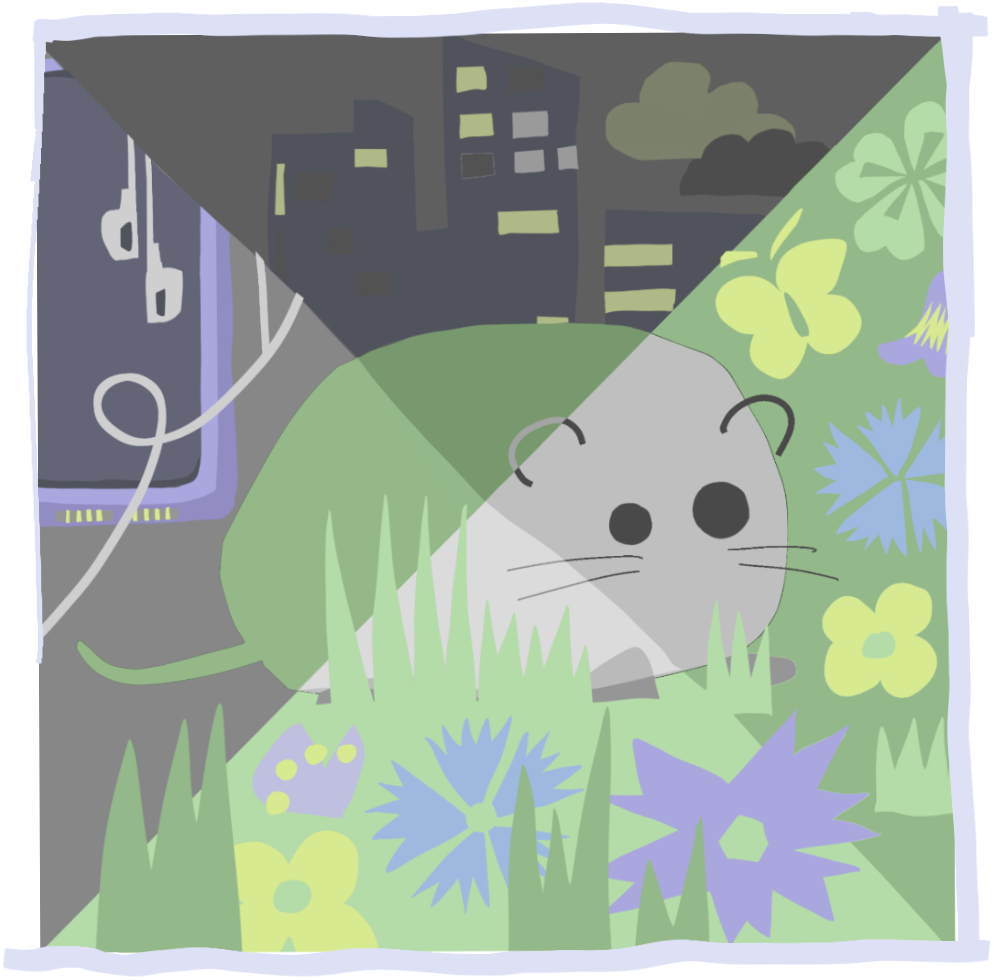
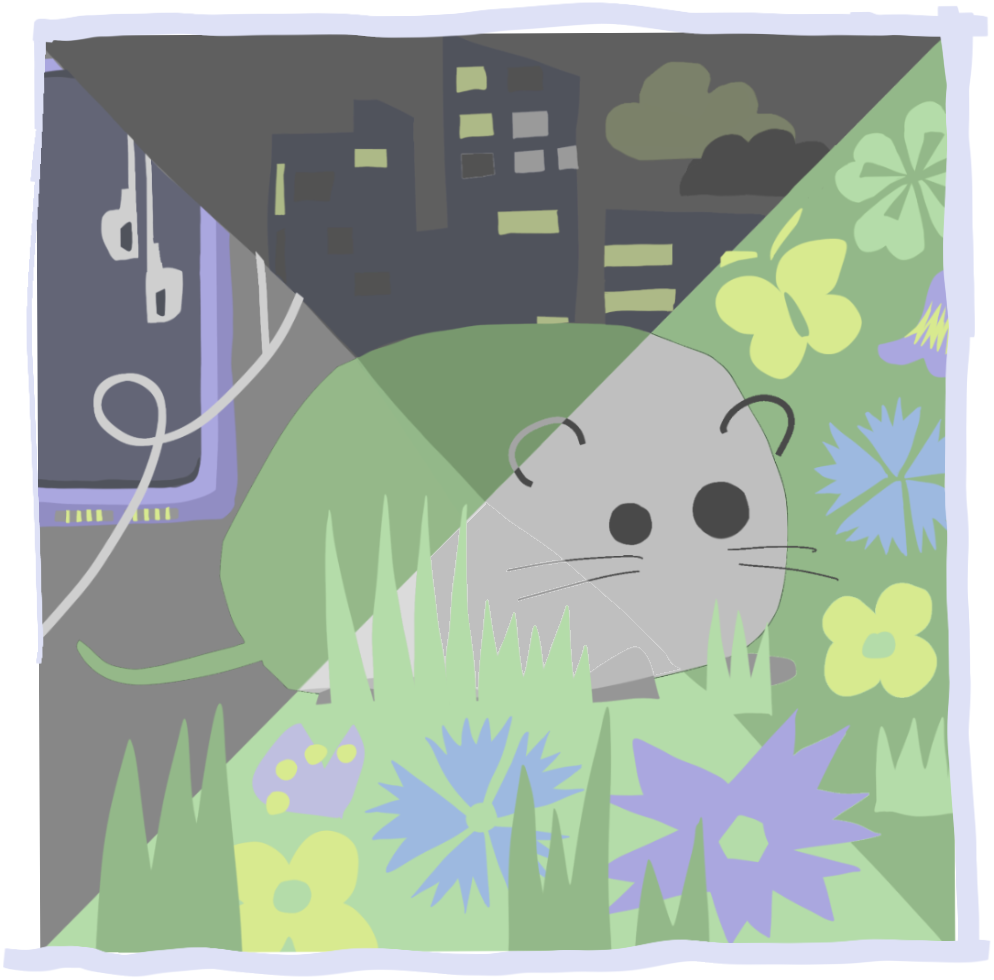
Restore mouse belly white that was keyed out as page background.
Fill lavender/near-white holes under the face with body gray and tighten illustration clip overlap.

Changed region(s): [[0.4366, 0.5204, 0.6861, 0.7041]]

diff --git a/public/cover.js b/public/cover.js
@@ -481,7 +481,7 @@ function setupIllustration(regionsData, AW, AH) {
   const imgSrc = assetUrl(regionsData.image);
   const [cx, cy] = regionsData.centerLocal || [w / 2, h / 2];
   // overlap clips so diagonal X seams don't flash page bg through the middle
-  const clipExpand = 1.14;
+  const clipExpand = 1.16;
 
   const svgNS = "http://www.w3.org/2000/svg";
   const xlinkNS = "http://www.w3.org/1999/xlink";

diff --git a/scripts/fix_mouse_belly.py b/scripts/fix_mouse_belly.py
@@ -1,0 +1,146 @@
+# -*- coding: utf-8 -*-
+"""Find page-bg / near-white keyed pixels in mouse belly and fill with face gray."""
+from __future__ import annotations
+
+from collections import deque
+from pathlib import Path
+
+from PIL import Image, ImageDraw, ImageFilter
+
+ROOT = Path(r"D:\D盘桌面\attic")
+SRC = ROOT / "public" / "center-illustration.png"
+TARGETS = [
+    SRC,
+    ROOT / "public" / "parts" / "center-illustration.png",
+    ROOT / "assets" / "cropped" / "center-illustration.png",
+    ROOT / "assets" / "full" / "center-illustration.png",
+]
+BG = (0xDE, 0xE1, 0xF6)
+FACE = (191, 191, 191, 255)
+PREVIEW = ROOT / "assets" / "illu-restore" / "belly-fixed-preview.png"
+
+
+def near(c, t, tol):
+    return abs(c[0] - t[0]) + abs(c[1] - t[1]) + abs(c[2] - t[2]) <= tol
+
+
+def main() -> None:
+    im = Image.open(SRC).convert("RGBA")
+    w, h = im.size
+    px = im.load()
+
+    # 1) locate face gray seed (right of center)
+    face_pts = []
+    for y in range(int(h * 0.32), int(h * 0.55)):
+        for x in range(int(w * 0.48), int(w * 0.70)):
+            r, g, b, a = px[x, y]
+            if a > 200 and near((r, g, b), (191, 191, 191), 18):
+                face_pts.append((x, y))
+    if not face_pts:
+        raise SystemExit("no face gray found")
+    # face bbox
+    fx0 = min(p[0] for p in face_pts)
+    fx1 = max(p[0] for p in face_pts)
+    fy0 = min(p[1] for p in face_pts)
+    fy1 = max(p[1] for p in face_pts)
+    print("face bbox", fx0, fy0, fx1, fy1, "n", len(face_pts))
+
+    # 2) belly search band: below face, roughly under mouse
+    bx0 = fx0 - 30
+    bx1 = fx1 + 10
+    by0 = fy1 - 10
+    by1 = min(h - 1, fy1 + int((fy1 - fy0) * 1.35))
+
+    # candidates: page-bg colored OR very pale lavender/white that aren't face
+    hole = []
+    for y in range(by0, by1):
+        for x in range(max(0, bx0), min(w, bx1)):
+            r, g, b, a = px[x, y]
+            if a < 40:
+                hole.append((x, y))
+                continue
+            # page ground / keyed white → lavender
+            if near((r, g, b), BG, 36):
+                hole.append((x, y))
+                continue
+            # near-white that isn't face gray (defensive)
+            if r >= 230 and g >= 230 and b >= 230:
+                hole.append((x, y))
+
+    print("hole candidates", len(hole), "band", bx0, by0, bx1, by1)
+
+    # 3) also grab green meadow pixels that sit in a concavity under face
+    #    (keyed white was healed into grass neighbors in some pipelines)
+    # Prefer: connected region of BG-like under face, expand slightly into
+    # flat green that's surrounded by face/green-back silhouette.
+
+    # Grow hole into adjacent BG-like and into "floating" grass pockets
+    # under the chin that are enclosed by silhouette.
+    hole_set = set(hole)
+    # expand within band to include more BG-like
+    q = deque(hole)
+    while q:
+        x, y = q.popleft()
+        for dy in (-1, 0, 1):
+            for dx in (-1, 0, 1):
+                nx, ny = x + dx, y + dy
+                if nx < bx0 or ny < by0 or nx >= bx1 or ny >= by1:
+                    continue
+                if (nx, ny) in hole_set:
+                    continue
+                r, g, b, a = px[nx, ny]
+                if a < 40 or near((r, g, b), BG, 42) or (r >= 225 and g >= 225 and b >= 225):
+                    hole_set.add((nx, ny))
+                    q.append((nx, ny))
+
+    print("hole after grow", len(hole_set))
+
+    # If still too few, detect BG strip by scanning rows under face for BG ratio
+    if len(hole_set) < 80:
+        for y in range(fy1, min(h, fy1 + 120)):
+            row = []
+            for x in range(max(0, fx0 - 20), min(w, fx1 + 5)):
+                r, g, b, a = px[x, y]
+                if a < 40 or near((r, g, b), BG, 40):
+                    row.append((x, y))
+            if len(row) >= 8:
+                for p in row:
+                    hole_set.add(p)
+        print("hole after row scan", len(hole_set))
+
+    # 4) paint belly with face gray + slight noise from neighbors
+    for x, y in hole_set:
+        px[x, y] = FACE
+
+    # 5) light morphological close: fill 1px gaps at belly edge with FACE
+    # if majority of neighbors are face gray or green-back
+    cur = im.copy()
+    cp = cur.load()
+    for y in range(by0, by1):
+        for x in range(max(0, bx0), min(w, bx1)):
+            r, g, b, a = cp[x, y]
+            if a > 200 and not near((r, g, b), BG, 30):
+                continue
+            face_n = 0
+            for dy in (-1, 0, 1):
+                for dx in (-1, 0, 1):
+                    rr, gg, bb, aa = cp[x + dx, y + dy] if 0 <= x + dx < w and 0 <= y + dy < h else (0, 0, 0, 0)
+                    if aa > 200 and near((rr, gg, bb), (191, 191, 191), 20):
+                        face_n += 1
+            if face_n >= 4:
+                px[x, y] = FACE
+
+    PREVIEW.parent.mkdir(parents=True, exist_ok=True)
+    # preview crop
+    prev = im.crop((int(w * 0.28), int(h * 0.28), int(w * 0.75), int(h * 0.78)))
+    prev.save(PREVIEW)
+    print("preview", PREVIEW)
+
+    for dest in TARGETS:
+        dest.parent.mkdir(parents=True, exist_ok=True)
+        im.save(dest)
+        print("wrote", dest)
+
+
+if __name__ == "__main__":
+    main()

diff --git a/scripts/fix_mouse_belly_pass2.py b/scripts/fix_mouse_belly_pass2.py
@@ -1,0 +1,54 @@
+# -*- coding: utf-8 -*-
+"""Second pass: mop up remaining page-bg pixels under the mouse belly."""
+from pathlib import Path
+
+from PIL import Image
+
+ROOT = Path(r"D:\D盘桌面\attic")
+SRC = ROOT / "public" / "center-illustration.png"
+TARGETS = [
+    SRC,
+    ROOT / "public" / "parts" / "center-illustration.png",
+    ROOT / "assets" / "cropped" / "center-illustration.png",
+    ROOT / "assets" / "full" / "center-illustration.png",
+    ROOT / "assets" / "center-illustration.before-defringe.png",
+]
+BG = (0xDE, 0xE1, 0xF6)
+FACE = (191, 191, 191, 255)
+
+
+def near(c, t, tol):
+    return abs(c[0] - t[0]) + abs(c[1] - t[1]) + abs(c[2] - t[2]) <= tol
+
+
+def main() -> None:
+    im = Image.open(SRC).convert("RGBA")
+    w, h = im.size
+    px = im.load()
+    fixed = 0
+    # wider belly band
+    for y in range(int(h * 0.48), int(h * 0.78)):
+        for x in range(int(w * 0.38), int(w * 0.72)):
+            r, g, b, a = px[x, y]
+            if a < 40 or near((r, g, b), BG, 48) or (r >= 228 and g >= 228 and b >= 235 and b >= r - 5):
+                # only if near face-gray or already-fixed belly (avoid eating sky)
+                neigh = 0
+                for dy in (-2, -1, 0, 1, 2):
+                    for dx in (-2, -1, 0, 1, 2):
+                        nx, ny = x + dx, y + dy
+                        if not (0 <= nx < w and 0 <= ny < h):
+                            continue
+                        rr, gg, bb, aa = px[nx, ny]
+                        if aa > 200 and near((rr, gg, bb), (191, 191, 191), 22):
+                            neigh += 1
+                if neigh >= 3:
+                    px[x, y] = FACE
+                    fixed += 1
+    print("mopped", fixed)
+    for dest in TARGETS:
+        im.save(dest)
+        print("wrote", dest.name)
+
+
+if __name__ == "__main__":
+    main()
